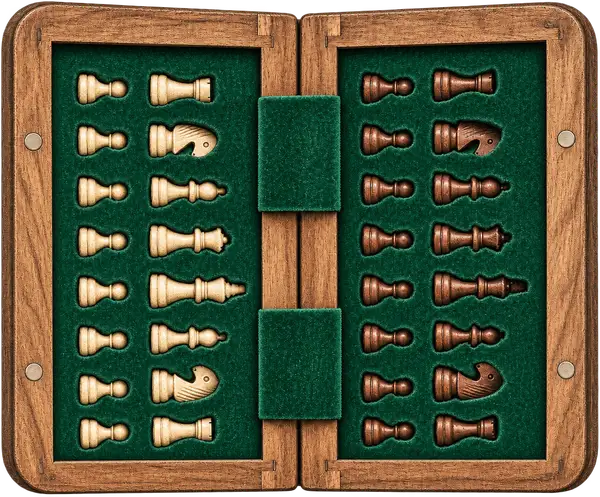
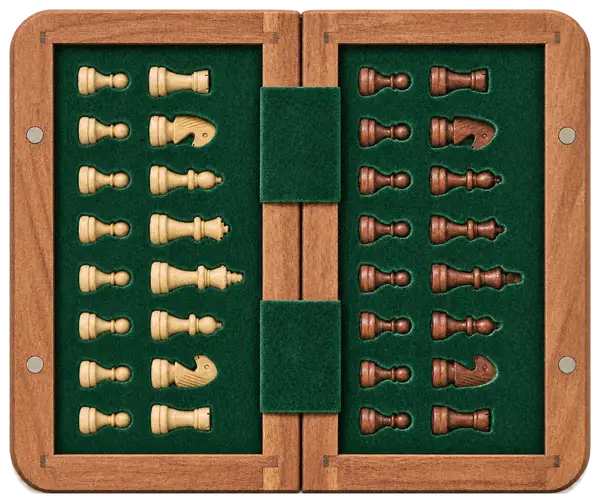
Chess story: the wooden set's two sides, made to turn as one
The author's new pair replaces the set's two pictures: the open set
with its pieces in green felt, and the same set turned over to its
board, now straight and without loose pieces. make-set-pair.cjs scales
the outside to the inside's height and puts both on one canvas, so the
turn about the upright axis never changes the height; the board's
squares are even enough (98 px give or take 4) for pieces to be placed
on them later.

diff --git a/src/components/stories/chess/ChessStory.js b/src/components/stories/chess/ChessStory.js
@@ -160,16 +160,16 @@ const ChessStory = ({ steps = [], names = [], title, date, dateLabel, form, minu
               front={{
                 name: "wooden-set",
                 width: 1000,
-                height: 829,
+                height: 838,
                 small: 600,
                 alt: "A wooden travel chess set lying open: the pieces rest in hollows of green felt, the light ones in the left half and the dark ones in the right.",
               }}
               back={{
                 name: "wooden-board",
-                width: 800,
-                height: 925,
-                small: 480,
-                alt: "The same set turned over: its outside is the chessboard, in light and dark wood, with a few pieces lying around it.",
+                width: 1000,
+                height: 838,
+                small: 600,
+                alt: "The same set turned over: its outside is the chessboard, sixty-four squares of light and dark wood across its two halves.",
               }}
               sizes="(max-width: 60rem) 72vw, 400px"
             />

diff --git a/src/components/stories/chess/chess.module.css b/src/components/stories/chess/chess.module.css
@@ -76,7 +76,7 @@
    of it: each is held to the width at which its height is 68% of the screen. */
 .ch-device { max-width: 44vh; max-width: 44svh; }
 .ch-phone { max-width: 41vh; max-width: 41svh; }
-.ch-woodenBoard { max-width: 58vh; max-width: 58svh; }
+.ch-woodenBoard { max-width: 80vh; max-width: 80svh; }
 
 /* A thing with two sides. Its frame is the larger side's; the sides lie back
    to back and the pair turns as one. */

diff --git a/scripts/stories/chess/README.md b/scripts/stories/chess/README.md
@@ -60,11 +60,14 @@ in a large and a phone width:
 
 - `device`: the Chess King Pocket Micro of the opening memory, supplied by the
   author.
-- `wooden-set`: the wooden travel set of the 2020s, open, supplied by the
-  author. Made at `1000,600|64`.
-- `wooden-board`: the same set turned over, the board side with a few pieces
-  around it, supplied by the author. Made at `800,480|64`. The two are the
-  sides of one `Turn`, which turns as the reader reaches it.
+- `wooden-set` and `wooden-board`: the two sides of the wooden travel set of
+  the 2020s, open (the pieces in green felt) and turned over (the board),
+  supplied by the author. Made by `make-set-pair.cjs`, which scales the outside
+  to the inside's height and puts both on one canvas, so they turn as one
+  object in `Turn`:
+
+      node make-set-pair.cjs <repo>/node_modules/sharp <repo>/public/images/stories/chess inside.png outside.png
+
 - `phone`: a phone with a Chess.com game about to begin, supplied by the
   author. Made at `800,480` from a copy in which the opponent's username and
   profile picture are hidden; the copy as supplied is kept out of the
